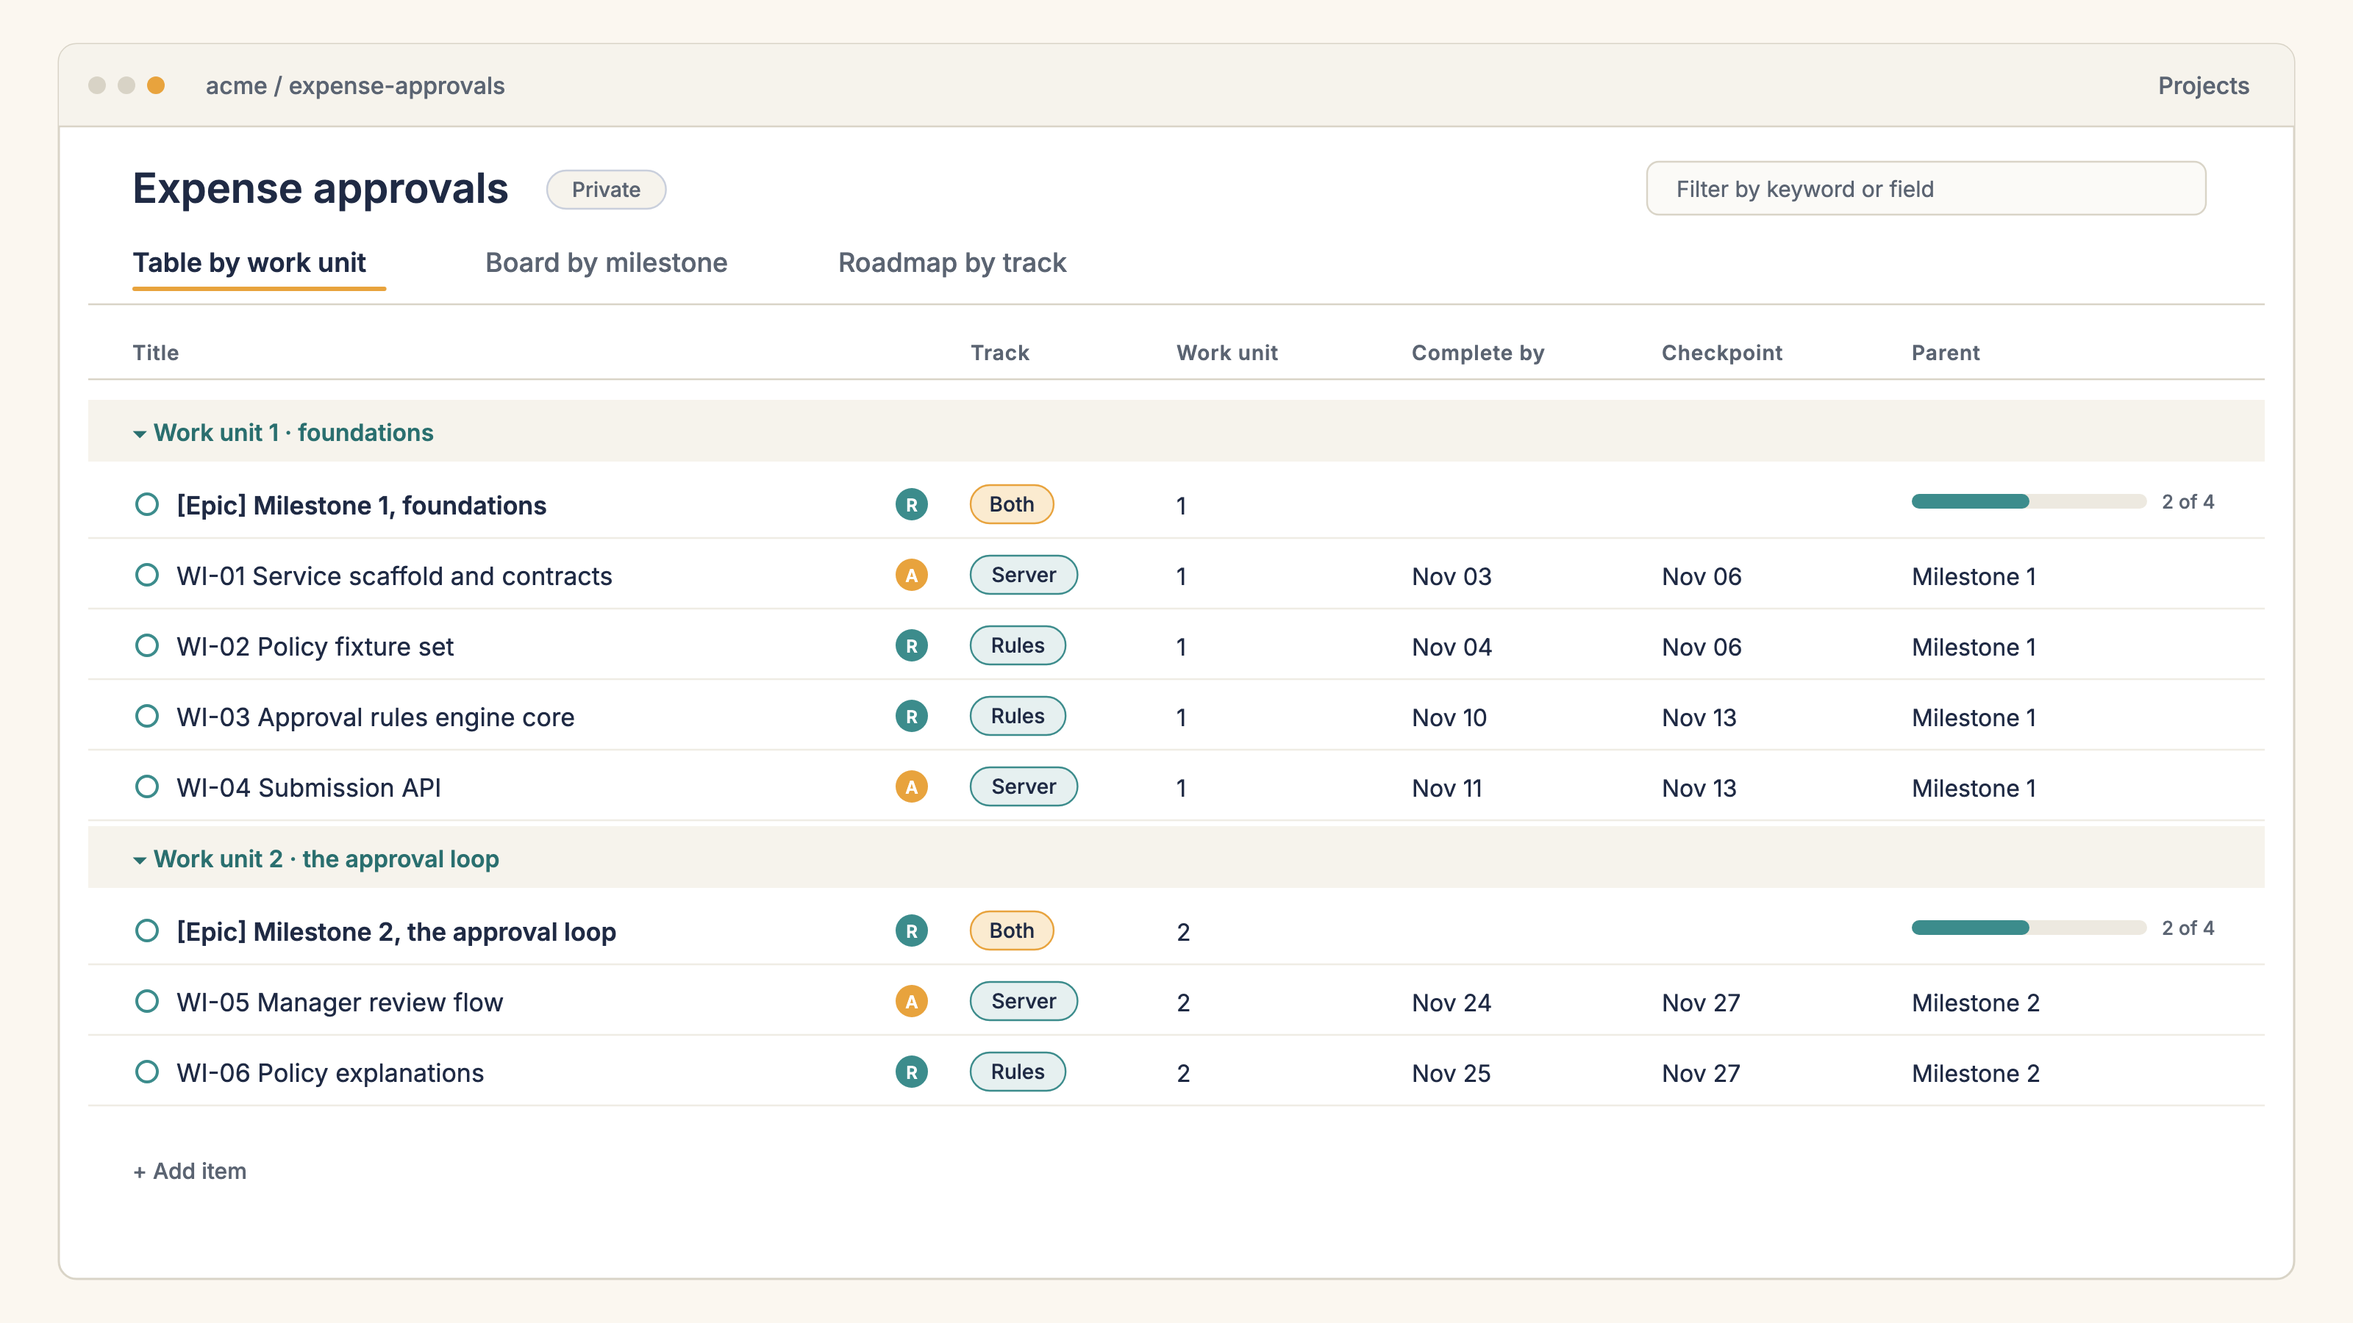
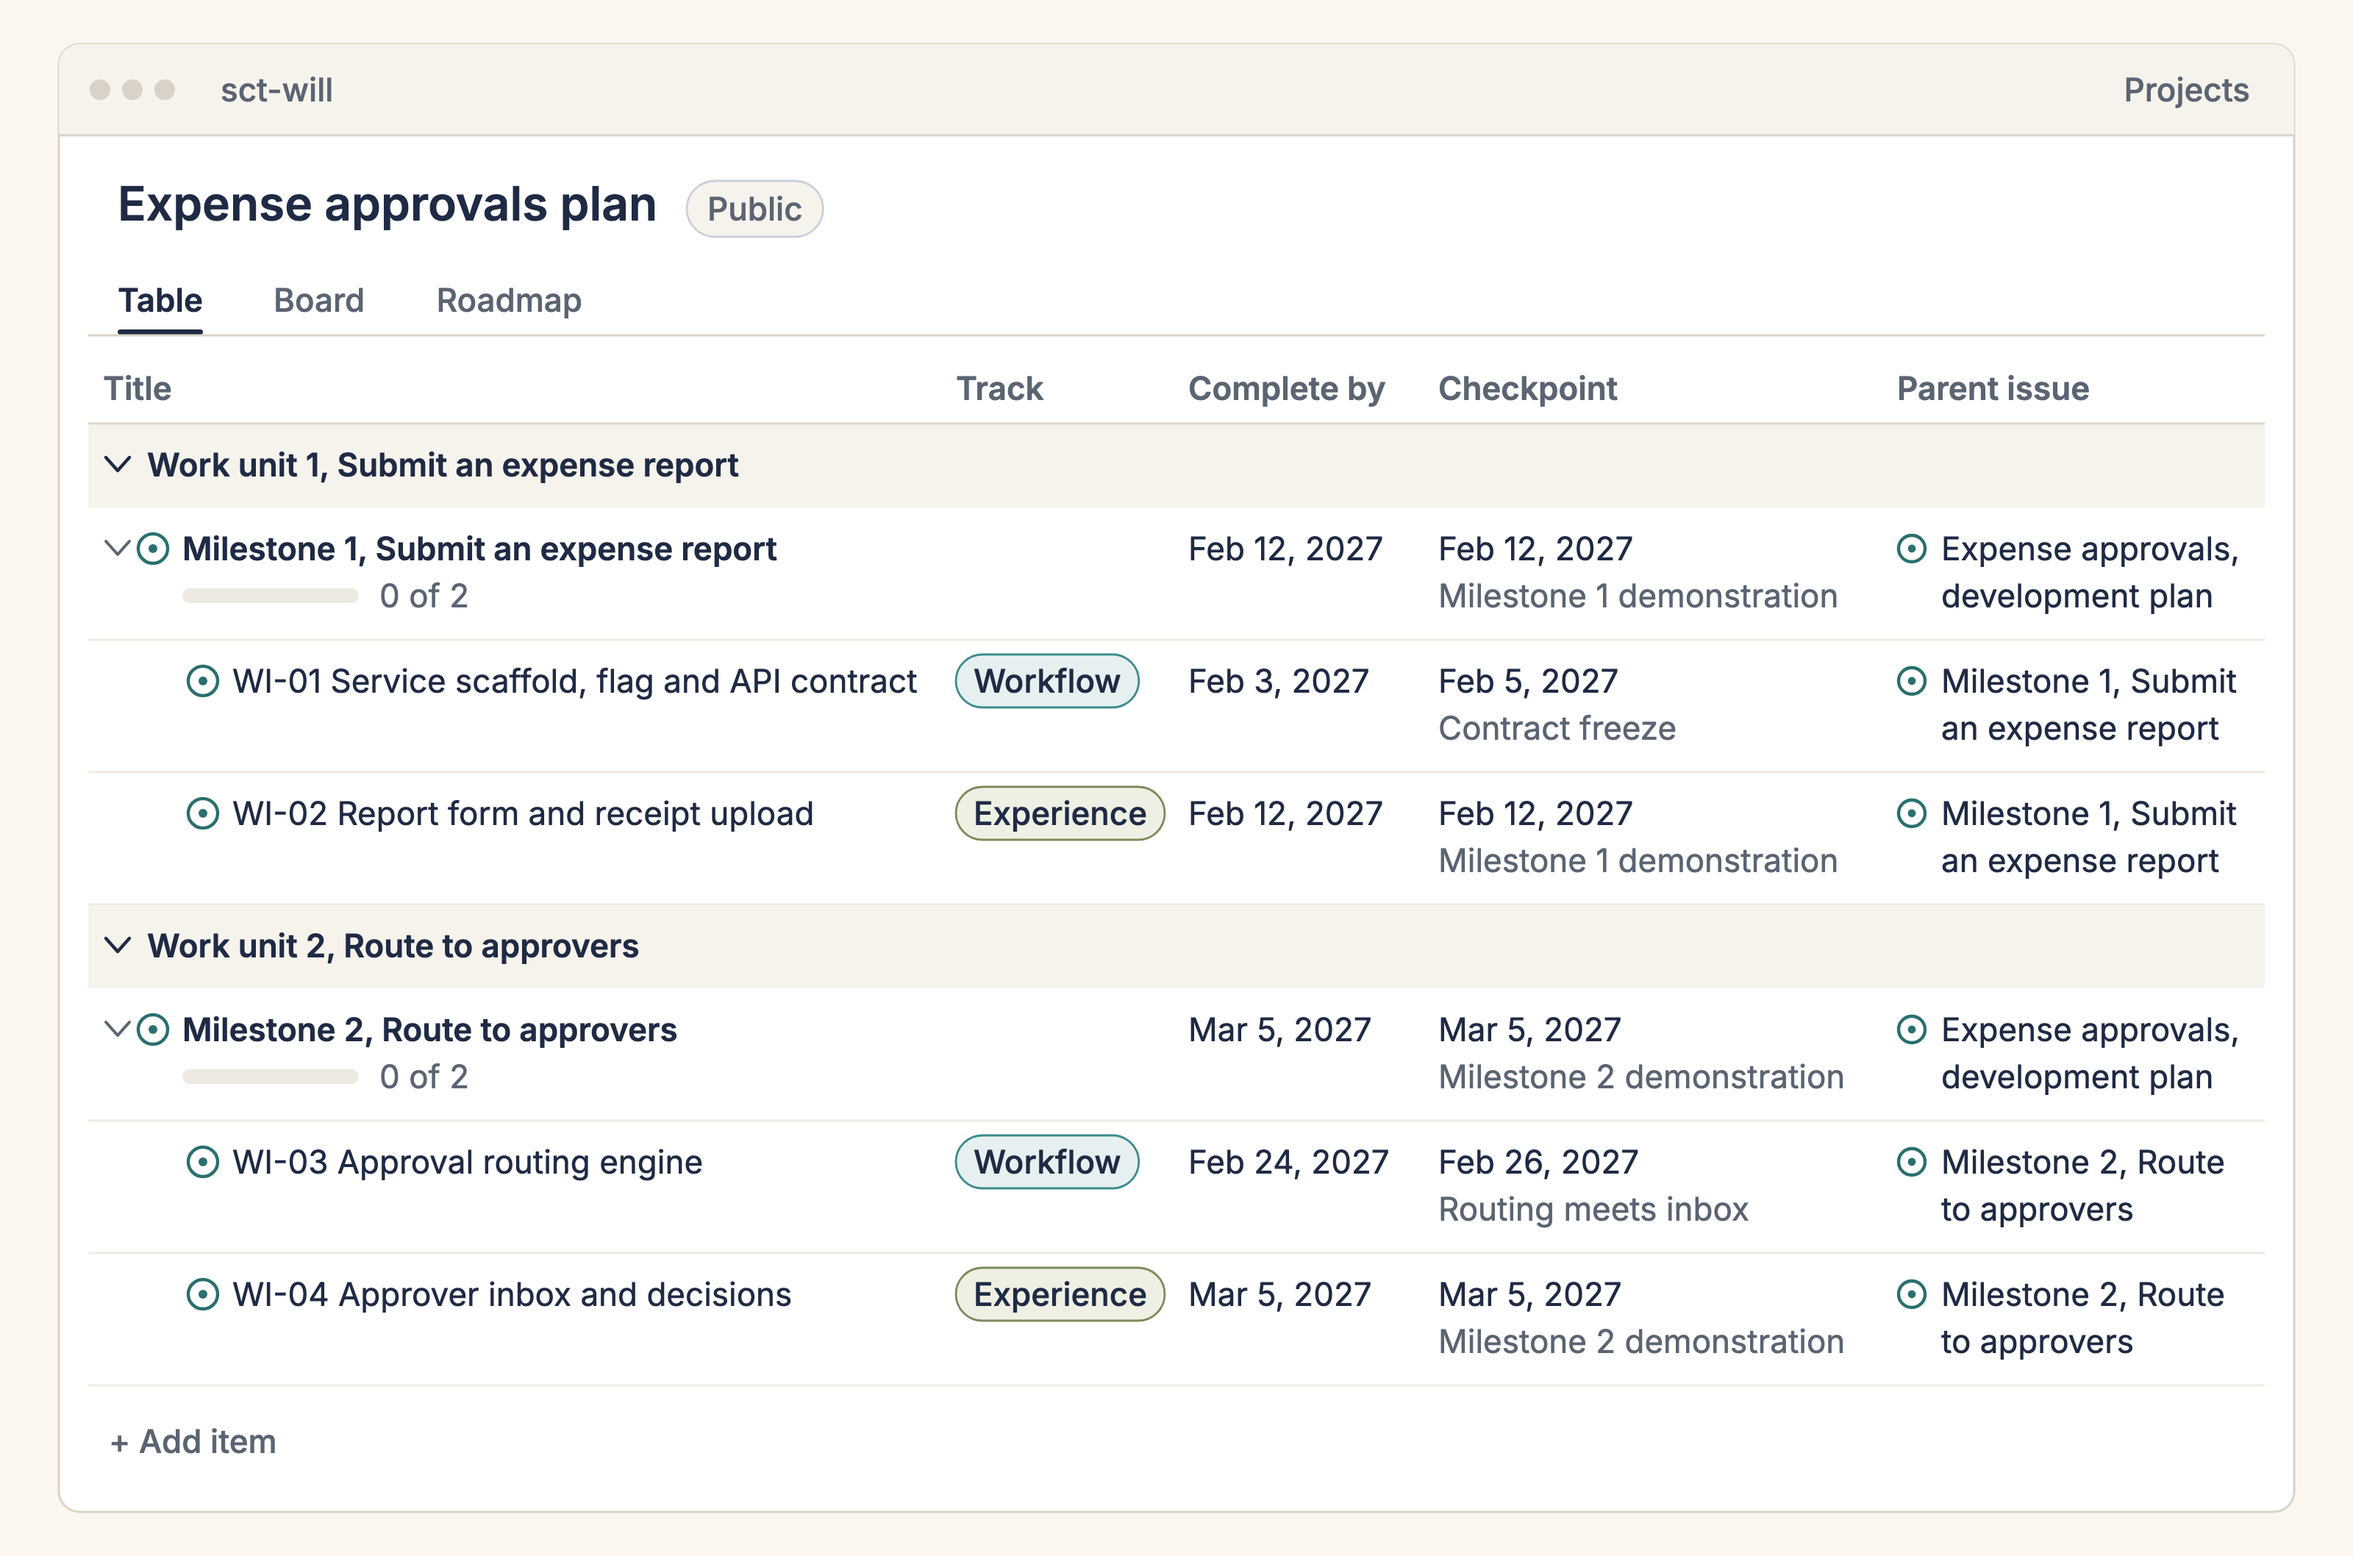
Replace the renderings with images built from the live plan and issues

diff --git a/README.md b/README.md
@@ -4,17 +4,13 @@ This repository is a sample. It holds the ground-truth document for a fictional 
 
 ## Renderings
 
-These are renderings of the sample output, not screenshots. They were drawn from an earlier version of the sample, so the item names, tracks, dates and issue numbers in the pictures differ from the live sample.
+These are renderings of the live sample output, drawn from this repository's plan and the issues as they are on GitHub, in the style used by the carrydown documentation. Every id, title, date and number in them is checked against the plan and the issues when they are built.
 
-![A rendering of the project board as a table grouped by work unit](docs/images/board-table.png)
+![The project board as a table grouped by work unit, with track, complete by, checkpoint and parent issue for each work item](docs/images/board-table.png)
 
-*Rendering of the sample output: the board as a table, grouped by work unit.*
+*The board as a table, grouped by work unit. The live board has the same fields; group it by Work unit to see this layout.*
 
-![A rendering of the project board as a roadmap](docs/images/board-roadmap.png)
-
-*Rendering of the sample output: the roadmap, with work units of different lengths.*
-
-![A rendering of one issue next to the specification file it links to](docs/images/issue-and-spec.png)
+![Work item WI-03, issue 9, beside the specification file its AI engineering notes link to](docs/images/issue-and-spec.png)
 
 *Rendering of the sample output: one issue and the spec file the agent reads first.*
 
